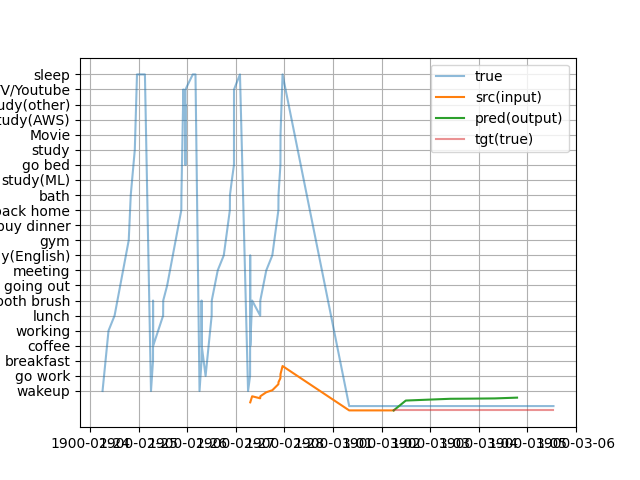
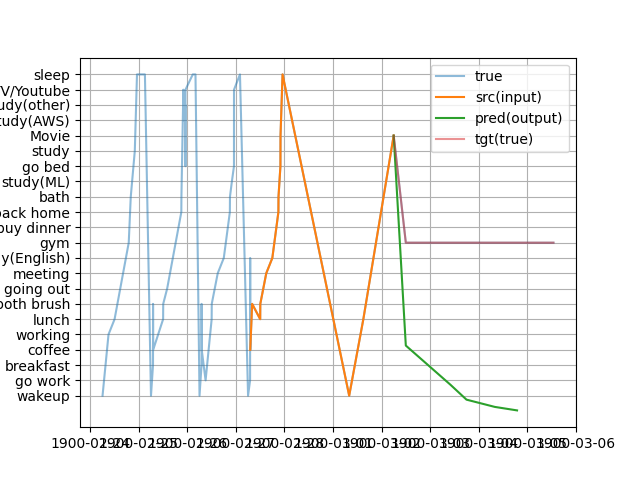
Update memo.txt

Changed region(s): [[0.0, 0.1562, 0.9062, 0.875]]

diff --git a/action_list_app/model_main_CONTINUE.py b/action_list_app/model_main_CONTINUE.py
@@ -277,7 +277,7 @@ def result():
 
         # パラメータの保存
         params = model.state_dict()
-        torch.save(params, "model.param")
+        torch.save(params, "weights_model.param")
 
     else:
         # パラメータの読み込み
@@ -388,7 +388,14 @@ class AirPassengersDataset(Dataset):
             border2 = border2s[self.set_type]
             data = df_raw[['actions']].values
             ss = StandardScaler()
-            data = ss.fit_transform(data)
+
+            print("20240318 data : ", data)
+
+            # 2024/03/18
+            # srcが小さくなっていた原因
+            # data = ss.fit_transform(data) 正規化してしまっている
+            # print("20240318 data : ", data)
+
             print("border1: {}, boredr2: {}".format(border1, border2))
             self.data = data[border1:border2]
 
@@ -768,6 +775,8 @@ def evaluate(flag, model, data_provider, criterion):
         
         
         "***** add 2024/03/04 *****"
+        # 本来はここに一週間分や一日分の推論結果をお指定するが、今回はダミーデータを推論結果として出力されたとして扱う
+        
         # df にするとエラー
         # df2 = pd.read_csv("./pred_date_actions.csv",sep=",")
         df2 = pd.read_csv("./pred_date_actions_pre.csv",sep=",") # 今はテストデータを読み込む(本来は推論結果を読み込む)
